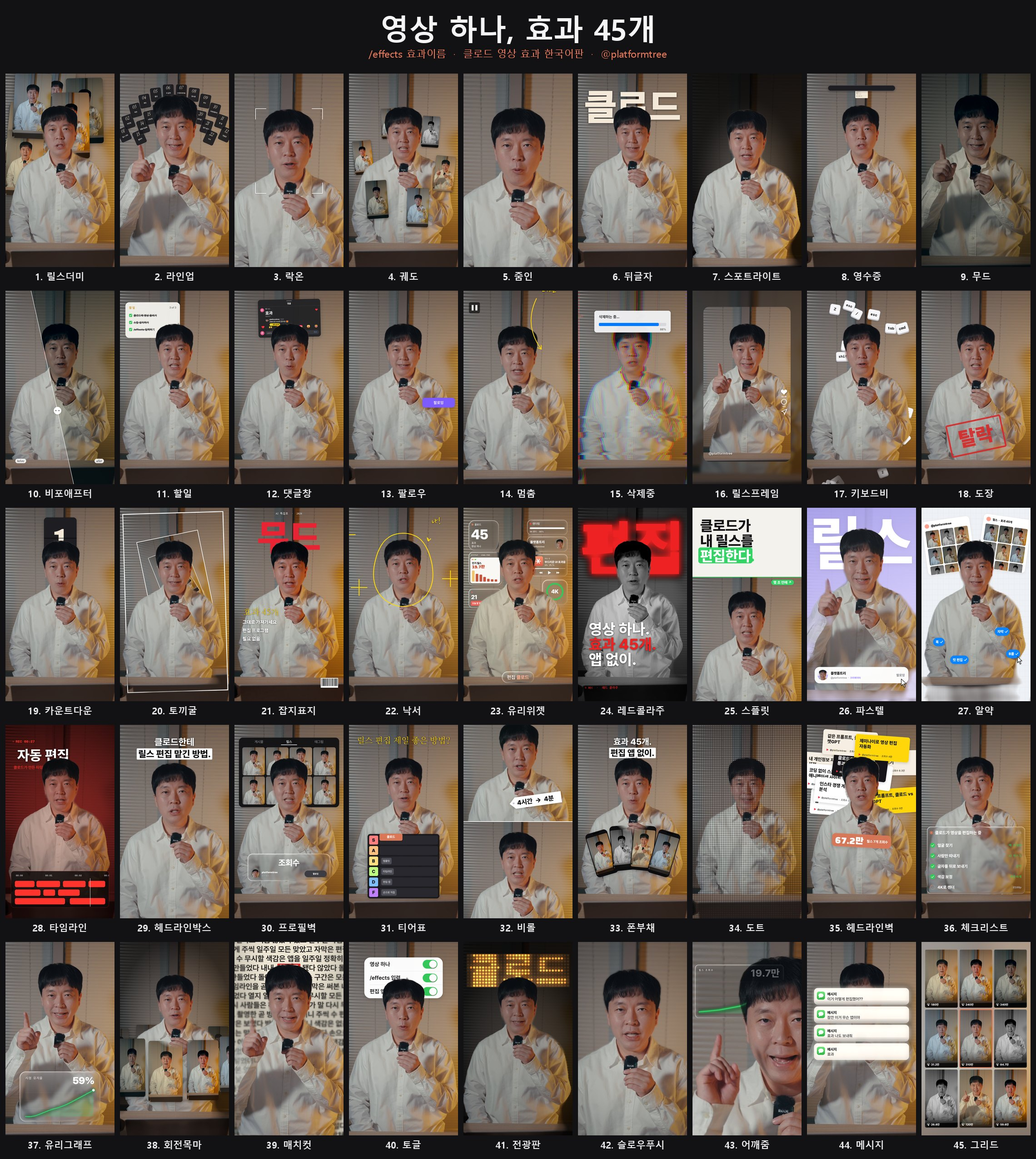
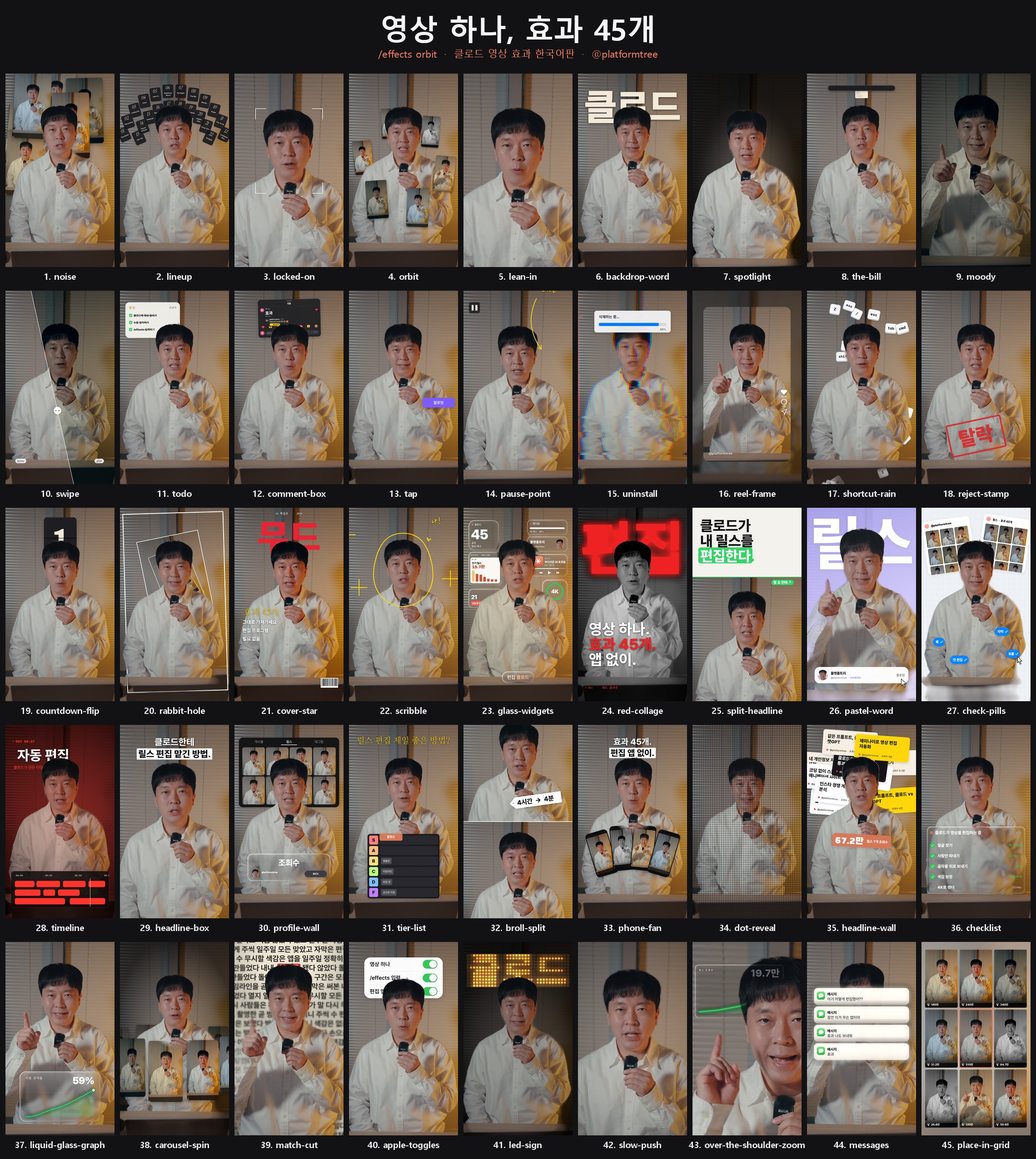
Use the original English effect names in docs, preview and --list
Korean translations of effect names read awkwardly, so README, SKILL.md,
the preview grid and lineup tiles use the English names again. Korean
aliases stay in fx.py as an undocumented fallback.

diff --git a/scripts/fx.py b/scripts/fx.py
@@ -28,9 +28,9 @@ KO_FONT = {k: os.path.join(ROOT, 'fonts', v) for k, v in {
 KO_WGHT = {'bold': 900, 'ui': 600, 'uim': 500, 'uib': 800, 'mont': 700, 'monts': 600, 'montb': 800}  # Pretendard variable: weight
 KO_SCALE = {'hand': 1.25, 'serif': 0.92}  # 한글 폰트가 영문보다 작거나 크게 보이는 만큼 보정
 CREAM, INK, PEACH, YELLOW = (244, 233, 216), (22, 22, 24), (255, 183, 165), (255, 214, 10)
-NAMES = ['릴스 더미', '라인업', '락온', '궤도', '줌인', '뒤 글자', '스포트라이트', '영수증',
-         '무드', '비포애프터', '할 일', '댓글창', '팔로우', '멈춤 화살표', '삭제 중', '릴스 프레임',
-         '키보드 비', '도장', '카운트다운', '토끼굴', '잡지 표지', '낙서']
+NAMES = ['The Noise', 'The Lineup', 'Locked On', 'Orbit', 'Lean-In', 'Backdrop Word', 'Spotlight', 'The Bill',
+         'Moody', 'Swipe', 'The To-Do', 'Comment Box', 'The Tap', 'Pause & Point', 'Uninstall', 'Reel Frame',
+         'Shortcut Rain', 'Reject Stamp', 'Countdown Flip', 'Rabbit Hole', 'Cover Star', 'Scribble']
 EFFECTS = {}
 ALIASES = {'the-noise': 'noise', 'the-lineup': 'lineup', 'bill': 'the-bill', 'to-do': 'todo', 'the-todo': 'todo', 'the-to-do': 'todo',
            'the-tap': 'tap', 'follow': 'tap', 'comment': 'comment-box', 'pause': 'pause-point', 'pause-and-point': 'pause-point',
@@ -45,7 +45,7 @@ ALIASES = {'the-noise': 'noise', 'the-lineup': 'lineup', 'bill': 'the-bill', 'to
            'imessage': 'messages', 'texts': 'messages', 'notifications': 'messages', 'grid': 'place-in-grid', 'profile-grid': 'place-in-grid'}
 LOOK_NAMES = {'glitter-spotlight': ('spotlight', 'sparkle'), 'glitter': ('spotlight', 'sparkle'),
               '반짝이': ('spotlight', 'sparkle'), '반짝이스포트라이트': ('spotlight', 'sparkle')}  # a named look of another effect
-# 한국어판: 한글 효과 이름 (띄어쓰기는 무시한다: "유리 위젯" = "유리위젯")
+# 한국어판: 공식 효과 이름은 영어 그대로. 아래 한글 별칭은 문서에 싣지 않는 예비용 (띄어쓰기는 무시한다)
 KO_NAMES = {'noise': '릴스더미 노이즈', 'lineup': '라인업', 'locked-on': '락온 조준', 'orbit': '궤도 오빗', 'lean-in': '줌인 펀치인',
             'backdrop-word': '뒤글자 배경글자', 'spotlight': '스포트라이트 조명', 'the-bill': '영수증', 'moody': '무드 색보정',
             'swipe': '비포애프터 스와이프', 'todo': '할일 투두', 'comment-box': '댓글 댓글창', 'tap': '팔로우 팔로우버튼',
@@ -2242,7 +2242,7 @@ def main():
     ap.add_argument('--list', action='store_true')
     a = ap.parse_args()
     if a.list:
-        for i, (k, (_, d)) in enumerate(EFFECTS.items()): print(f'{i + 1:2d}. {k:24s} {KO_NAMES.get(k, "").split()[0] if k in KO_NAMES else "":10s} {d}')
+        for i, (k, (_, d)) in enumerate(EFFECTS.items()): print(f'{i + 1:2d}. {k:24s} {d}')
         return
     if a.plan:
         src, dst = a.args[0], a.args[1]; plan = json.load(open(a.plan, encoding='utf-8-sig'))  # 윈도우 기본 인코딩(cp949)이 아니라 UTF-8로 읽는다

diff --git a/README.md b/README.md
@@ -1,6 +1,6 @@
 # 클로드 영상 효과 45개 — 한국어판
 
-말하는 영상 하나를 클로드에 올리고 `/effects 궤도`처럼 효과 이름만 치면 편집이 끝납니다.
+말하는 영상 하나를 클로드에 올리고 `/effects orbit`처럼 효과 이름만 치면 편집이 끝납니다.
 
 한국어판 정리: 플랫폼트리 [@platformtree](https://instagram.com/platformtree)
 원작: [claude-video-effects](https://github.com/Vibha-Ramprakash/claude-video-effects) by Vibha Ramprakash ([@vibha.in.progress](https://instagram.com/vibha.in.progress)) · MIT 라이선스
@@ -10,7 +10,7 @@
 ## 원작과 달라진 점
 
 - **한글이 깨지지 않습니다.** 원작 폰트는 영문 전용이라 한글이 네모(□)로 나왔습니다. 효과마다 어울리는 무료 한글 폰트(프리텐다드, 검은고딕, 나눔명조, 나눔펜, 나눔고딕코딩)를 짝지어 넣었습니다. 영어 글자는 원작 폰트 그대로 나옵니다.
-- **한글 효과 이름으로 부를 수 있습니다.** `/effects 궤도`, `/effects 유리 위젯`, `/effects 체크리스트`. 영어 이름도 그대로 됩니다.
+- **한국어로 설명해도 됩니다.** 효과 이름은 원작 그대로 영어(`/effects orbit`)이고, 나머지는 "3초부터", "'불 꺼'라고 말할 때"처럼 한국어로 말하면 됩니다.
 - **"이 단어 말할 때"가 한국어로 정확해졌습니다.** 받아쓰기를 한국어로 지정하고 더 정확한 모델로 바꿨습니다.
 - **화면 속 문구가 한국어입니다.** 팔로우/팔로잉, 댓글 달기, 게시, 메시지, "클로드가 영상을 편집하는 중" 등.
 - **윈도우에서 바로 됩니다.** 설치 스크립트와 이모지 폰트를 윈도우에 맞게 고쳤습니다.
@@ -46,10 +46,10 @@ git clone https://github.com/codmsdncodusdn-web/claude-video-effects-ko $HOME\.c
 3. 원하는 효과를 칩니다.
 
 ```
-/effects 궤도 3초부터 6초까지
-/effects 스포트라이트 "불 꺼" 라고 말할 때, 뒤에 클로드 글자
-/effects 댓글창 마지막에, "효과" 입력
-/effects 유리 위젯 처음 3초
+/effects orbit 3초부터 6초까지
+/effects spotlight "불 꺼" 라고 말할 때, 뒤에 클로드 글자
+/effects comment-box 마지막에, "효과" 입력
+/effects glass-widgets 처음 3초
 ```
 
 처음 한 번은 클로드가 준비를 합니다(약 2~3분). ffmpeg와 파이썬이 필요한데, 없으면 클로드가 설치해줍니다.
@@ -57,68 +57,68 @@ git clone https://github.com/codmsdncodusdn-web/claude-video-effects-ko $HOME\.c
 클로드가 먼저 몇 장면을 확인해서 얼굴을 가리는 게 있으면 고치고, 원본 옆에 `영상이름_effects.mp4`를 만들어줍니다. 원래 소리는 그대로 남습니다.
 
 여러 효과를 한 번에 넣을 수도 있습니다.
-*"6초부터 10초까지 락온, 10초부터 13초까지 궤도, '아니요'라고 할 때 탈락 도장 넣어줘."*
+*"6초부터 10초까지 locked-on, 10초부터 13초까지 orbit, '아니요'라고 할 때 reject-stamp 넣어줘."*
 
 ## 효과 45개
 
-| # | 이렇게 치세요 | 영어 이름 | 어떻게 되나요 |
-|---|---|---|---|
-| 1 | `릴스더미` | `noise` | 머리 뒤로 릴스가 쌓입니다 |
-| 2 | `라인업` | `lineup` | 번호 붙은 타일이 머리 위로 부채꼴로 펼쳐집니다 |
-| 3 | `락온` | `locked-on` | 얼굴에 조준선이 붙고 카메라가 따라갑니다 |
-| 4 | `궤도` | `orbit` | 내 릴스가 머리 주위를 돕니다 |
-| 5 | `줌인` | `lean-in` | 한 단어에서 빠르게 확 당겨집니다 |
-| 6 | `뒤글자` | `backdrop-word` | 커다란 단어가 내 뒤로 떨어집니다 |
-| 7 | `스포트라이트` | `spotlight` | 방 불이 꺼지고 나만 밝게 남습니다 |
-| 8 | `영수증` | `the-bill` | 내 지시가 영수증처럼 인쇄돼 나옵니다 |
-| 9 | `무드` | `moody` | 분위기 있는 색보정 |
-| 10 | `비포애프터` | `swipe` | 전후 비교 슬라이더가 지나갑니다 |
-| 11 | `할일` | `todo` | 머리 옆 할 일 목록이 말하는 대로 체크됩니다 |
-| 12 | `댓글창` | `comment-box` | 인스타 댓글이 저절로 입력되고 게시됩니다 |
-| 13 | `팔로우` | `tap` | 팔로우 버튼이 팔로잉으로 바뀝니다 |
-| 14 | `멈춤` | `pause-point` | 화면이 멈추고 손글씨 화살표가 나를 가리킵니다 |
-| 15 | `삭제중` | `uninstall` | 글리치 삭제 막대가 화면을 깹니다 |
-| 16 | `릴스프레임` | `reel-frame` | 영상이 릴스 카드로 줄어듭니다 |
-| 17 | `키보드비` | `shortcut-rain` | 키보드 키가 내 뒤로 비처럼 떨어집니다 |
-| 18 | `도장` | `reject-stamp` | 빨간 도장이 쾅 찍힙니다 |
-| 19 | `카운트다운` | `countdown-flip` | 머리 위 3, 2, 1 플립 시계 |
-| 20 | `토끼굴` | `rabbit-hole` | 방이 터널처럼 빨려 들어갑니다 |
-| 21 | `잡지표지` | `cover-star` | 내가 잡지 표지가 됩니다 |
-| 22 | `낙서` | `scribble` | 마커 낙서가 내 주위에 그려집니다 |
-| 23 | `유리위젯` | `glass-widgets` | 유리 위젯과 미니 화면이 머리 주위에 떠다닙니다 |
-| 24 | `레드콜라주` | `red-collage` | 흑백의 나, 뒤에 커다란 빨간 단어, 문구 세 줄 |
-| 25 | `스플릿` | `split-headline` | 제목 카드가 내려오며 나를 아래 절반으로 밉니다 |
-| 26 | `파스텔` | `pastel-word` | 라벤더 방, 뒤에 큰 단어, 프로필 카드가 팔로우됩니다 |
-| 27 | `알약` | `check-pills` | 모눈종이 방, 뒤에 릴스 보드, 파란 알약이 클릭됩니다 |
-| 28 | `타임라인` | `timeline` | 붉은 필름 톤에 편집 타임라인과 빛나는 재생 막대 |
-| 29 | `헤드라인박스` | `headline-box` | 확 당겨지며 두 줄 제목이 나옵니다 |
-| 30 | `프로필벽` | `profile-wall` | 내 릴스 그리드가 벽을 채우고 숫자가 올라갑니다 |
-| 31 | `티어표` | `tier-list` | 티어표가 내려오고 클로드가 S티어로 날아갑니다 |
-| 32 | `비롤` | `broll-split` | 위에 B롤과 가격표 스티커, 아래에 나 |
-| 33 | `폰부채` | `phone-fan` | 내 릴스가 폰 카드처럼 부채꼴로 펼쳐집니다 |
-| 34 | `도트` | `dot-reveal` | 빛나는 점들로 화면이 만들어지다 선명해집니다 |
-| 35 | `헤드라인벽` | `headline-wall` | 내 릴스 제목들이 머리 뒤로 쌓이고 합계가 뜹니다 |
-| 36 | `체크리스트` | `checklist` | 턱 아래 클로드 작업 목록이 하나씩 초록 체크됩니다 |
-| 37 | `유리그래프` | `liquid-glass-graph` | 유리 카드 속 그래프가 오르고 숫자가 올라갑니다 |
-| 38 | `회전목마` | `carousel-spin` | 내 릴스가 3D 회전목마처럼 나를 돕니다 |
-| 39 | `매치컷` | `match-cut` | 기사 페이지가 한 단어에 맞춰 바뀝니다 |
-| 40 | `토글` | `apple-toggles` | 아이폰 설정 스위치가 한 줄씩 켜집니다 |
-| 41 | `전광판` | `led-sign` | 불이 꺼지고 내 뒤로 LED 전광판 글자가 써집니다 |
-| 42 | `슬로우푸시` | `slow-push` | 천천히 얼굴로 다가가며 배경이 흐려집니다 |
-| 43 | `어깨줌` | `over-the-shoulder-zoom` | 한쪽 위 모서리로 줌, 유리 그래프, 반대쪽으로 한 번 더 |
-| 44 | `메시지` | `messages` | 메시지 알림이 하나씩 쌓입니다 |
-| 45 | `그리드` | `place-in-grid` | 내가 3x3 피드 가운데로 줄어들고 주위에 릴스가 채워집니다 |
+| # | 이렇게 치세요 | 어떻게 되나요 |
+|---|---|---|
+| 1 | `noise` | 머리 뒤로 릴스가 쌓입니다 |
+| 2 | `lineup` | 번호 붙은 타일이 머리 위로 부채꼴로 펼쳐집니다 |
+| 3 | `locked-on` | 얼굴에 조준선이 붙고 카메라가 따라갑니다 |
+| 4 | `orbit` | 내 릴스가 머리 주위를 돕니다 |
+| 5 | `lean-in` | 한 단어에서 빠르게 확 당겨집니다 |
+| 6 | `backdrop-word` | 커다란 단어가 내 뒤로 떨어집니다 |
+| 7 | `spotlight` | 방 불이 꺼지고 나만 밝게 남습니다 |
+| 8 | `the-bill` | 내 지시가 영수증처럼 인쇄돼 나옵니다 |
+| 9 | `moody` | 분위기 있는 색보정 |
+| 10 | `swipe` | 전후 비교 슬라이더가 지나갑니다 |
+| 11 | `todo` | 머리 옆 할 일 목록이 말하는 대로 체크됩니다 |
+| 12 | `comment-box` | 인스타 댓글이 저절로 입력되고 게시됩니다 |
+| 13 | `tap` | 팔로우 버튼이 팔로잉으로 바뀝니다 |
+| 14 | `pause-point` | 화면이 멈추고 손글씨 화살표가 나를 가리킵니다 |
+| 15 | `uninstall` | 글리치 삭제 막대가 화면을 깹니다 |
+| 16 | `reel-frame` | 영상이 릴스 카드로 줄어듭니다 |
+| 17 | `shortcut-rain` | 키보드 키가 내 뒤로 비처럼 떨어집니다 |
+| 18 | `reject-stamp` | 빨간 도장이 쾅 찍힙니다 |
+| 19 | `countdown-flip` | 머리 위 3, 2, 1 플립 시계 |
+| 20 | `rabbit-hole` | 방이 터널처럼 빨려 들어갑니다 |
+| 21 | `cover-star` | 내가 잡지 표지가 됩니다 |
+| 22 | `scribble` | 마커 낙서가 내 주위에 그려집니다 |
+| 23 | `glass-widgets` | 유리 위젯과 미니 화면이 머리 주위에 떠다닙니다 |
+| 24 | `red-collage` | 흑백의 나, 뒤에 커다란 빨간 단어, 문구 세 줄 |
+| 25 | `split-headline` | 제목 카드가 내려오며 나를 아래 절반으로 밉니다 |
+| 26 | `pastel-word` | 라벤더 방, 뒤에 큰 단어, 프로필 카드가 팔로우됩니다 |
+| 27 | `check-pills` | 모눈종이 방, 뒤에 릴스 보드, 파란 알약이 클릭됩니다 |
+| 28 | `timeline` | 붉은 필름 톤에 편집 타임라인과 빛나는 재생 막대 |
+| 29 | `headline-box` | 확 당겨지며 두 줄 제목이 나옵니다 |
+| 30 | `profile-wall` | 내 릴스 그리드가 벽을 채우고 숫자가 올라갑니다 |
+| 31 | `tier-list` | 티어표가 내려오고 클로드가 S티어로 날아갑니다 |
+| 32 | `broll-split` | 위에 B롤과 가격표 스티커, 아래에 나 |
+| 33 | `phone-fan` | 내 릴스가 폰 카드처럼 부채꼴로 펼쳐집니다 |
+| 34 | `dot-reveal` | 빛나는 점들로 화면이 만들어지다 선명해집니다 |
+| 35 | `headline-wall` | 내 릴스 제목들이 머리 뒤로 쌓이고 합계가 뜹니다 |
+| 36 | `checklist` | 턱 아래 클로드 작업 목록이 하나씩 초록 체크됩니다 |
+| 37 | `liquid-glass-graph` | 유리 카드 속 그래프가 오르고 숫자가 올라갑니다 |
+| 38 | `carousel-spin` | 내 릴스가 3D 회전목마처럼 나를 돕니다 |
+| 39 | `match-cut` | 기사 페이지가 한 단어에 맞춰 바뀝니다 |
+| 40 | `apple-toggles` | 아이폰 설정 스위치가 한 줄씩 켜집니다 |
+| 41 | `led-sign` | 불이 꺼지고 내 뒤로 LED 전광판 글자가 써집니다 |
+| 42 | `slow-push` | 천천히 얼굴로 다가가며 배경이 흐려집니다 |
+| 43 | `over-the-shoulder-zoom` | 한쪽 위 모서리로 줌, 유리 그래프, 반대쪽으로 한 번 더 |
+| 44 | `messages` | 메시지 알림이 하나씩 쌓입니다 |
+| 45 | `place-in-grid` | 내가 3x3 피드 가운데로 줄어들고 주위에 릴스가 채워집니다 |
 
-보너스: `/effects 반짝이` (금빛 스포트라이트), `잡지표지 look=editorial` (클래식 잡지), `유리그래프 look=bento` (유리 대시보드).
+보너스: `/effects glitter-spotlight` (금빛 스포트라이트), `cover-star look=editorial` (클래식 잡지), `liquid-glass-graph look=bento` (유리 대시보드).
 
 모든 효과는 얼굴을 따라다니고, 얼굴을 가릴 것 같은 건 머리 뒤로 들어갑니다.
 
 ## 팁
 - 세로로 찍은, 내가 화면에 나오는 영상이 가장 잘 됩니다.
 - 타이밍은 말로 하면 됩니다. "'봐보세요'라고 할 때". 정확한 초는 클로드가 찾습니다.
-- `궤도`, `릴스더미`, `폰부채`, `프로필벽`에 내 릴스를 넣고 싶으면 릴스 캡처 폴더를 클로드에게 주세요.
+- `orbit`, `noise`, `phone-fan`, `profile-wall`에 내 릴스를 넣고 싶으면 릴스 캡처 폴더를 클로드에게 주세요.
 - 그래프·숫자·제목에는 내 실제 숫자를 넣으세요. 클로드에게 알려주면 됩니다. `19.7만`처럼 한국식 단위도 됩니다.
-- 이름·계정이 나오는 효과(유리위젯, 파스텔, 프로필벽 등)는 내 이름과 계정을 알려주세요.
+- 이름·계정이 나오는 효과(`glass-widgets`, `pastel-word`, `profile-wall` 등)는 내 이름과 계정을 알려주세요.
 - 기본은 1080p입니다. 4K가 필요하면 말하세요 (더 느립니다).
 
 ## 솔직하게
